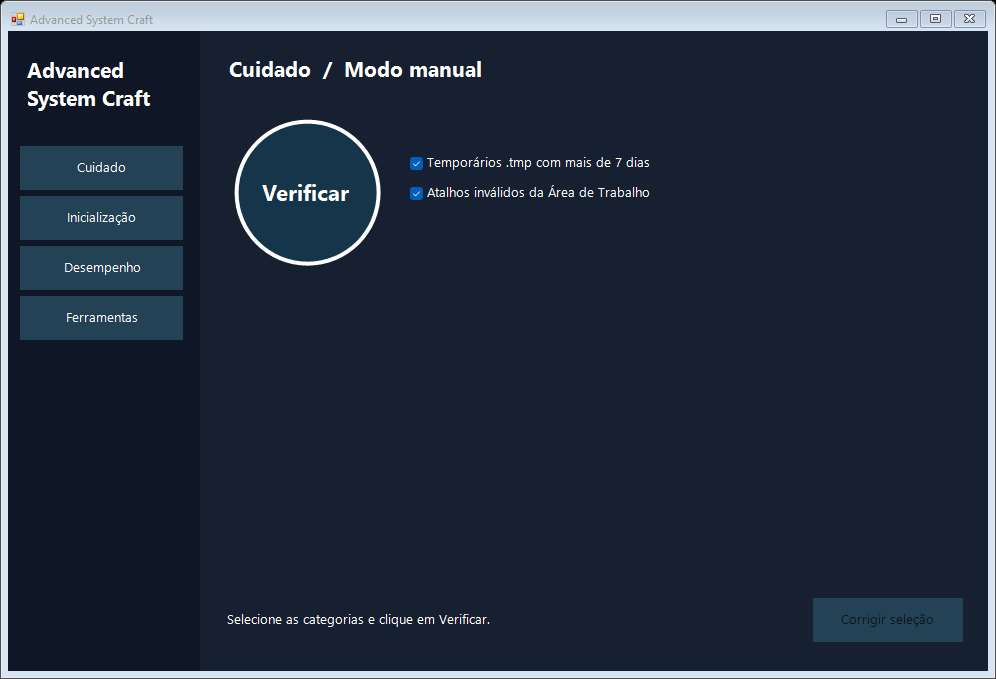
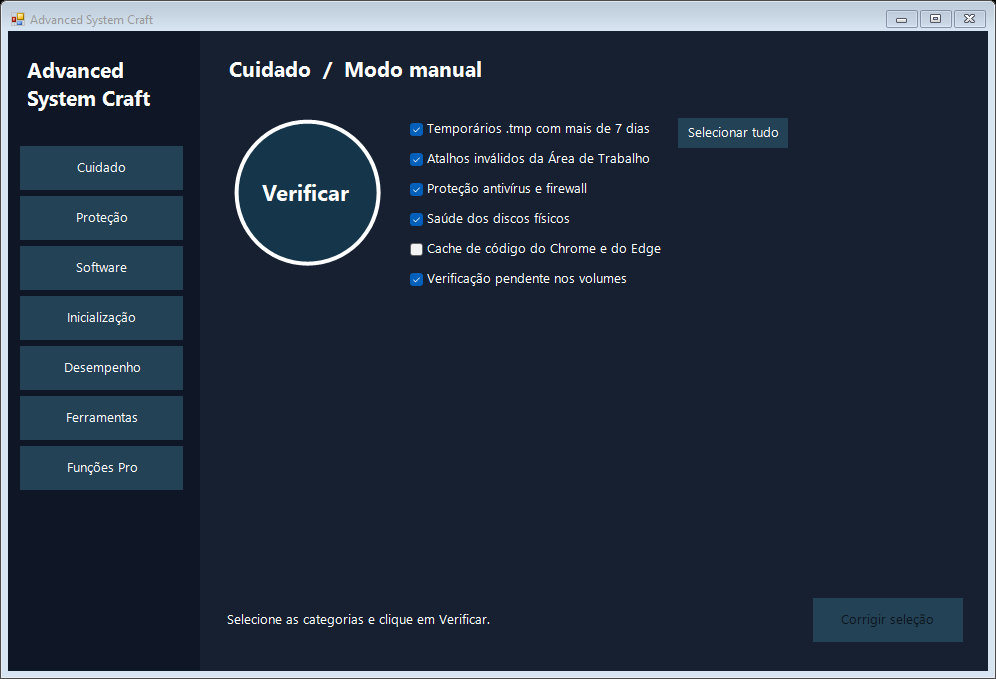
feat: identify Pro features and enable interactive batch upgrades

diff --git a/WindowsHealth.cs b/WindowsHealth.cs
@@ -9,6 +9,9 @@ using System.Text.RegularExpressions;
 using System.Threading.Tasks;
 using System.Windows.Forms;
 
+internal sealed class CatalogResult {
+    public string Text; public bool Success;
+}
 internal static class WindowsHealth {
     public static string Protection(){
         var lines=new List<string>();
@@ -63,7 +66,7 @@ internal static class WindowsHealth {
     static string WingetPath(){
         return Path.Combine(Environment.GetFolderPath(Environment.SpecialFolder.LocalApplicationData),@"Microsoft\WindowsApps\winget.exe");
     }
-    public static async Task<string> ListSoftware(bool updates){
+    public static async Task<CatalogResult> ListSoftware(bool updates){
         var args="list --source winget --disable-interactivity"+(updates?" --upgrade-available":"");
         var info=new ProcessStartInfo(WingetPath(),args){CreateNoWindow=true,UseShellExecute=false,
             RedirectStandardOutput=true,RedirectStandardError=true,StandardOutputEncoding=Encoding.UTF8,StandardErrorEncoding=Encoding.UTF8};
@@ -72,9 +75,12 @@ internal static class WindowsHealth {
             await Task.WhenAll(output,errors).ConfigureAwait(false);
             process.WaitForExit();
             var result=(output.Result+Environment.NewLine+errors.Result).Trim();
-            if(process.ExitCode!=0)return "WinGet 0x"+process.ExitCode.ToString("X8")+Environment.NewLine+result;
-            return result;
+            if(process.ExitCode!=0)result="WinGet 0x"+process.ExitCode.ToString("X8")+Environment.NewLine+result;
+            return new CatalogResult{Text=result,Success=process.ExitCode==0};
         }
+    }
+    public static ProcessStartInfo UpdateAllCommand(){
+        return new ProcessStartInfo(WingetPath(),"upgrade --source winget --all --interactive --wait"){UseShellExecute=false};
     }
     public static ProcessStartInfo UpdateCommand(string id){
         if(id==null || !Regex.IsMatch(id,@"\A[A-Za-z0-9][A-Za-z0-9._+-]*\z"))
@@ -95,7 +101,20 @@ internal sealed partial class CraftWindow {
         var result=await Task.Run(()=>WindowsHealth.Protection());
         if(!page.IsDisposed)label.Text=result;
     }
-    Task<string> catalogRequest;
+    void ShowPremium(){
+        var page=Page("Funções Pro do programa de referência");
+        var info=new Label{AutoSize=true,MaximumSize=new System.Drawing.Size(520,0),
+            Text="O selo PRO identifica uma função da edição paga do Advanced SystemCare. No Craft, as funções disponíveis estão incluídas."};
+        page.Controls.Add(info);
+        ActionButton(page,"Abrir atualização de software",(s,e)=>ShowSoftware(),255);
+        var features=new ListView{View=View.Details,FullRowSelect=true,Width=570,Height=265,BackColor=surface,ForeColor=System.Drawing.Color.White};
+        features.Columns.Add("Função de referência",300);features.Columns.Add("Disponibilidade no Craft",250);
+        features.Items.Add(new ListViewItem(new[]{"Atualizar todos os programas","Disponível via WinGet"}));
+        foreach(var feature in new[]{"Atualização automática do próprio aplicativo","Limpeza automática de RAM","Otimização da Internet","Limpeza do registro","Desativação de programas","Proteção antispyware em tempo real","Pastas protegidas","Bloqueio automático de acesso","Proteção de impressão digital do navegador","Antirrastreamento"})
+            features.Items.Add(new ListViewItem(new[]{feature,"Ainda sem equivalente"}));
+        page.Controls.Add(features);
+    }
+    Task<CatalogResult> catalogRequest;
     void ShowSoftware(){
         var page=Page("Atualização de software");
         var bar=new FlowLayoutPanel{AutoSize=true};page.Controls.Add(bar);
@@ -106,11 +125,26 @@ internal sealed partial class CraftWindow {
         page.Controls.Add(new Label{AutoSize=true,Text="ID do pacote a atualizar"});page.Controls.Add(id);
         ActionButton(page,"Atualizar pacote",(s,e)=>{try{using(Process.Start(WindowsHealth.UpdateCommand(id.Text.Trim()))){}}
             catch(Exception ex){MessageBox.Show(this,ex.Message,Text);}},175);
+        var batchRow=new FlowLayoutPanel{AutoSize=true,WrapContents=false};
+        page.Controls.Add(batchRow);
+        var batch=ActionButton(batchRow,"Atualizar todos",(s,e)=>{
+            try{using(Process.Start(WindowsHealth.UpdateAllCommand())){}}
+            catch(Exception ex){MessageBox.Show(this,ex.Message,Text);}
+        },175);
+        const string premiumInfo="Recurso Pro no Advanced SystemCare, incluído no Craft.";
+        var badge=new Label{Text="PRO",AccessibleDescription=premiumInfo,AccessibleName=premiumInfo,
+            AutoSize=true,BackColor=System.Drawing.Color.FromArgb(255,194,87),ForeColor=System.Drawing.Color.FromArgb(36,28,14),
+            Font=new System.Drawing.Font(Font, System.Drawing.FontStyle.Bold),Margin=new Padding(3,10,0,0),Padding=new Padding(6,2,6,2)};
+        batchRow.Controls.Add(badge);
+        var hint=new ToolTip();hint.SetToolTip(badge,premiumInfo);hint.SetToolTip(batch,premiumInfo);
+        batch.AccessibleDescription=premiumInfo;
+        page.Disposed+=(sender,eventArgs)=>hint.Dispose();
+        batch.Enabled=false;
         Button available=null,all=null;
         Func<bool,Task> load=async updates=>{
             if(catalogRequest!=null && !catalogRequest.IsCompleted){output.Text="Uma consulta está em andamento. Aguarde e consulte novamente.";return;}
-            available.Enabled=all.Enabled=false;output.Text="Consultando o catálogo WinGet…";
-            try {catalogRequest=WindowsHealth.ListSoftware(updates);var result=await catalogRequest;if(!page.IsDisposed)output.Text=result;}
+            batch.Enabled=false;available.Enabled=all.Enabled=false;output.Text="Consultando o catálogo WinGet…";
+            try {catalogRequest=WindowsHealth.ListSoftware(updates);var result=await catalogRequest;if(!page.IsDisposed){output.Text=result.Text;batch.Enabled=updates && result.Success;}}
             catch(Exception ex){if(!page.IsDisposed)output.Text="Consulta indisponível: "+ex.Message;}
             finally{if(!page.IsDisposed)available.Enabled=all.Enabled=true;}
         };

diff --git a/Verification.cs b/Verification.cs
@@ -53,6 +53,7 @@ class Verification {
             Check(protection.Length>0,"diagnóstico de proteção");
             Check(WindowsHealth.UpdateCommand("Git.Git").Arguments.Contains("--id Git.Git --exact"),"seleção exata do pacote");
             try{WindowsHealth.UpdateCommand("--all");throw new Exception("ID inválido aceito");}catch(ArgumentException){}
+            Check(WindowsHealth.UpdateAllCommand().Arguments=="upgrade --source winget --all --interactive --wait","lote interativo usa catálogo winget");
             Application.EnableVisualStyles();
             using(var window=new CraftWindow()){
                 window.Show();Application.DoEvents();
@@ -64,9 +65,13 @@ class Verification {
                 Check(Find<Button>(window,"Gerenciar nas configurações do Windows")!=null,"leitura da inicialização");
                 Find<Button>(window,"Desempenho").PerformClick();Application.DoEvents();
                 Check(Find<Button>(window,"Atualizar")!=null,"navegação para discos");
+                Find<Button>(window,"Funções Pro").PerformClick();Application.DoEvents();
+                Check(Find<Button>(window,"Abrir atualização de software")!=null,"inventário Pro navegável");
                 Find<Button>(window,"Software").PerformClick(); Application.DoEvents();
                 var lookup=Find<Button>(window,"Buscar atualizações");
                 Check(lookup!=null,"consulta de software na interface");
+                Check(Find<Label>(window,"PRO").AccessibleDescription.Contains("incluído no Craft"),"selo PRO identificado na tela de software");
+                Check(!Find<Button>(window,"Atualizar todos").Enabled,"lote aguarda a prévia");
                 if(args.Contains("--catalog")){
                     lookup.PerformClick();var limit=DateTime.UtcNow.AddMinutes(2);
                     do{Application.DoEvents();Thread.Sleep(40);}while(!lookup.Enabled && DateTime.UtcNow<limit);
@@ -83,6 +88,9 @@ class Verification {
                 using(var image=new Bitmap(preview.Width,preview.Height)){
                     preview.DrawToBitmap(image,new Rectangle(Point.Empty,image.Size));
                     image.Save(args[0],System.Drawing.Imaging.ImageFormat.Png);
+                    Find<Button>(preview,"Software").PerformClick();Application.DoEvents();
+                    preview.DrawToBitmap(image,new Rectangle(Point.Empty,image.Size));
+                    image.Save(Path.Combine(Path.GetDirectoryName(Path.GetFullPath(args[0])),"software.png"),System.Drawing.Imaging.ImageFormat.Png);
                 }
             }
         } finally {

diff --git a/App.cs b/App.cs
@@ -51,7 +51,7 @@ internal sealed partial class CraftWindow : Form {
         menu.Padding=new Padding(12,24,8,0); menu.BackColor=Color.FromArgb(15,23,38);
         var brand=new Label {Text="Advanced\nSystem Craft", Size=new Size(163,88), Font=new Font(Font.FontFamily,16,FontStyle.Bold)};
         menu.Controls.Add(brand);
-        AddNav("Cuidado", ShowCare); AddNav("Proteção", ShowProtection); AddNav("Software", ShowSoftware); AddNav("Inicialização", ShowStartup); AddNav("Desempenho", ShowPerformance); AddNav("Ferramentas", ShowTools);
+        AddNav("Cuidado", ShowCare); AddNav("Proteção", ShowProtection); AddNav("Software", ShowSoftware); AddNav("Inicialização", ShowStartup); AddNav("Desempenho", ShowPerformance); AddNav("Ferramentas", ShowTools); AddNav("Funções Pro", ShowPremium);
         body.Dock=DockStyle.Fill; Controls.Add(body); Controls.Add(menu);
         care.Dock=DockStyle.Fill; care.Padding=new Padding(22);
         var layout=new TableLayoutPanel {Dock=DockStyle.Fill,ColumnCount=1,RowCount=4};

diff --git a/README.md b/README.md
@@ -11,11 +11,17 @@ Aplicativo independente de manutenção para Windows em português. Selecione as
 | Cuidado | Verifica arquivos .tmp com mais de sete dias na raiz da pasta temporária do usuário e atalhos .lnk com destino ausente em disco local na raiz da Área de Trabalho. |
 | Privacidade | Identifica entradas de cache de código nos perfis Default e Profile N de Chrome e Edge fechados. A seleção é opcional. |
 | Proteção e hardware | Consulta o firewall por perfil, o antivírus registrado, o estado dos discos físicos e o sinalizador de verificação pendente dos volumes. |
-| Software | Consulta o catálogo WinGet. Exibe as versões reportadas e permite abrir o instalador interativo para um ID exato. |
+| Software | Consulta o catálogo WinGet. Exibe as versões reportadas e permite abrir o instalador interativo para um ID exato. Após consultar as atualizações, o botão Atualizar todos permite iniciar um lote interativo. |
 | Correção | Mostra caminho e tamanho, revalida cada item selecionado e usa a Lixeira do Windows. Falhas aparecem na lista. |
 | Inicialização | Lista entradas das chaves Run e das pastas de inicialização do usuário e do computador. Abre as configurações do Windows para gerenciamento. |
 | Desempenho | Mostra capacidade e espaço livre dos discos fixos. |
 | Ferramentas | Abre o Monitor de Recursos, o Gerenciador de Tarefas e as configurações de inicialização. |
+
+## O selo PRO
+
+O selo dourado identifica um recurso pago no produto de referência e incluído no Craft. Em **Software**, clique em **Buscar atualizações** para obter a prévia do WinGet e habilitar **Atualizar todos**. A tela **Funções Pro** distingue os equivalentes disponíveis dos recursos ainda pendentes.
+
+![Atualização de software com identificação PRO](docs/software.png)
 
 ## Executar a partir do código
 
